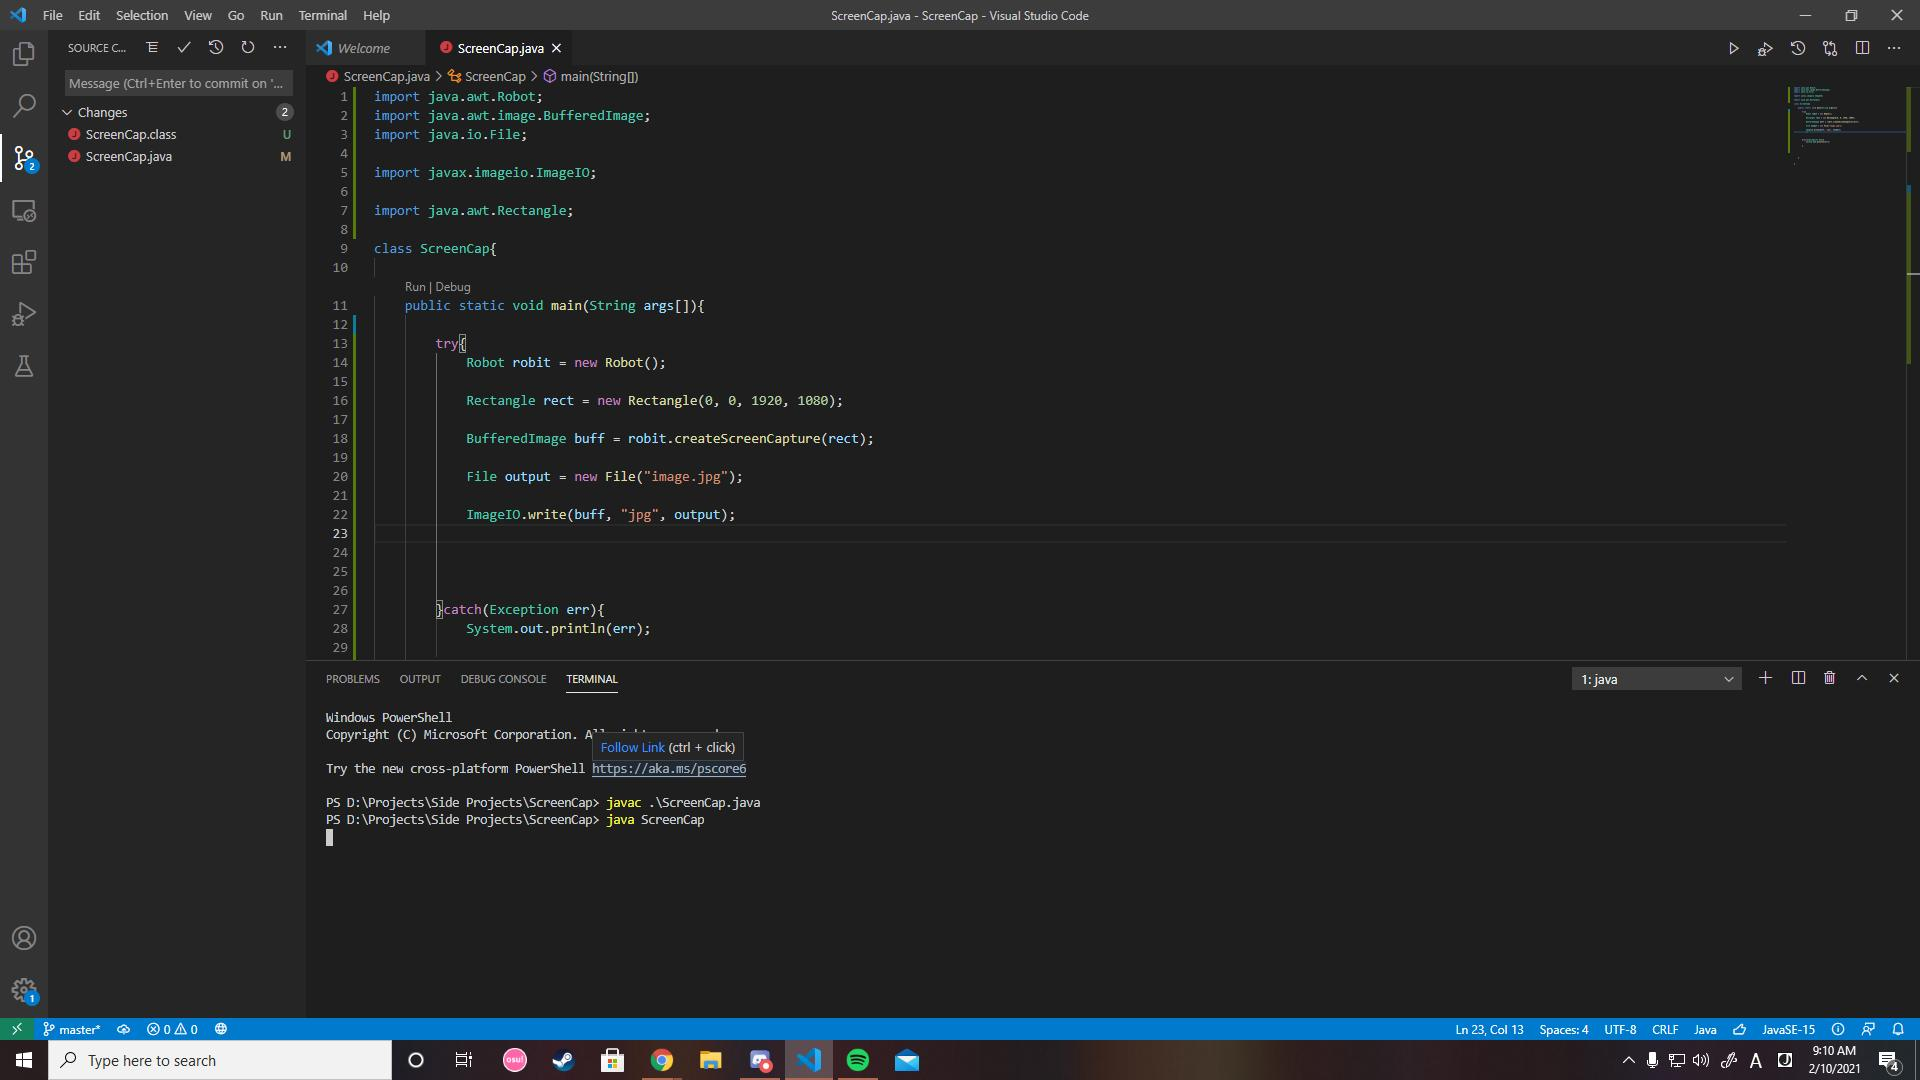
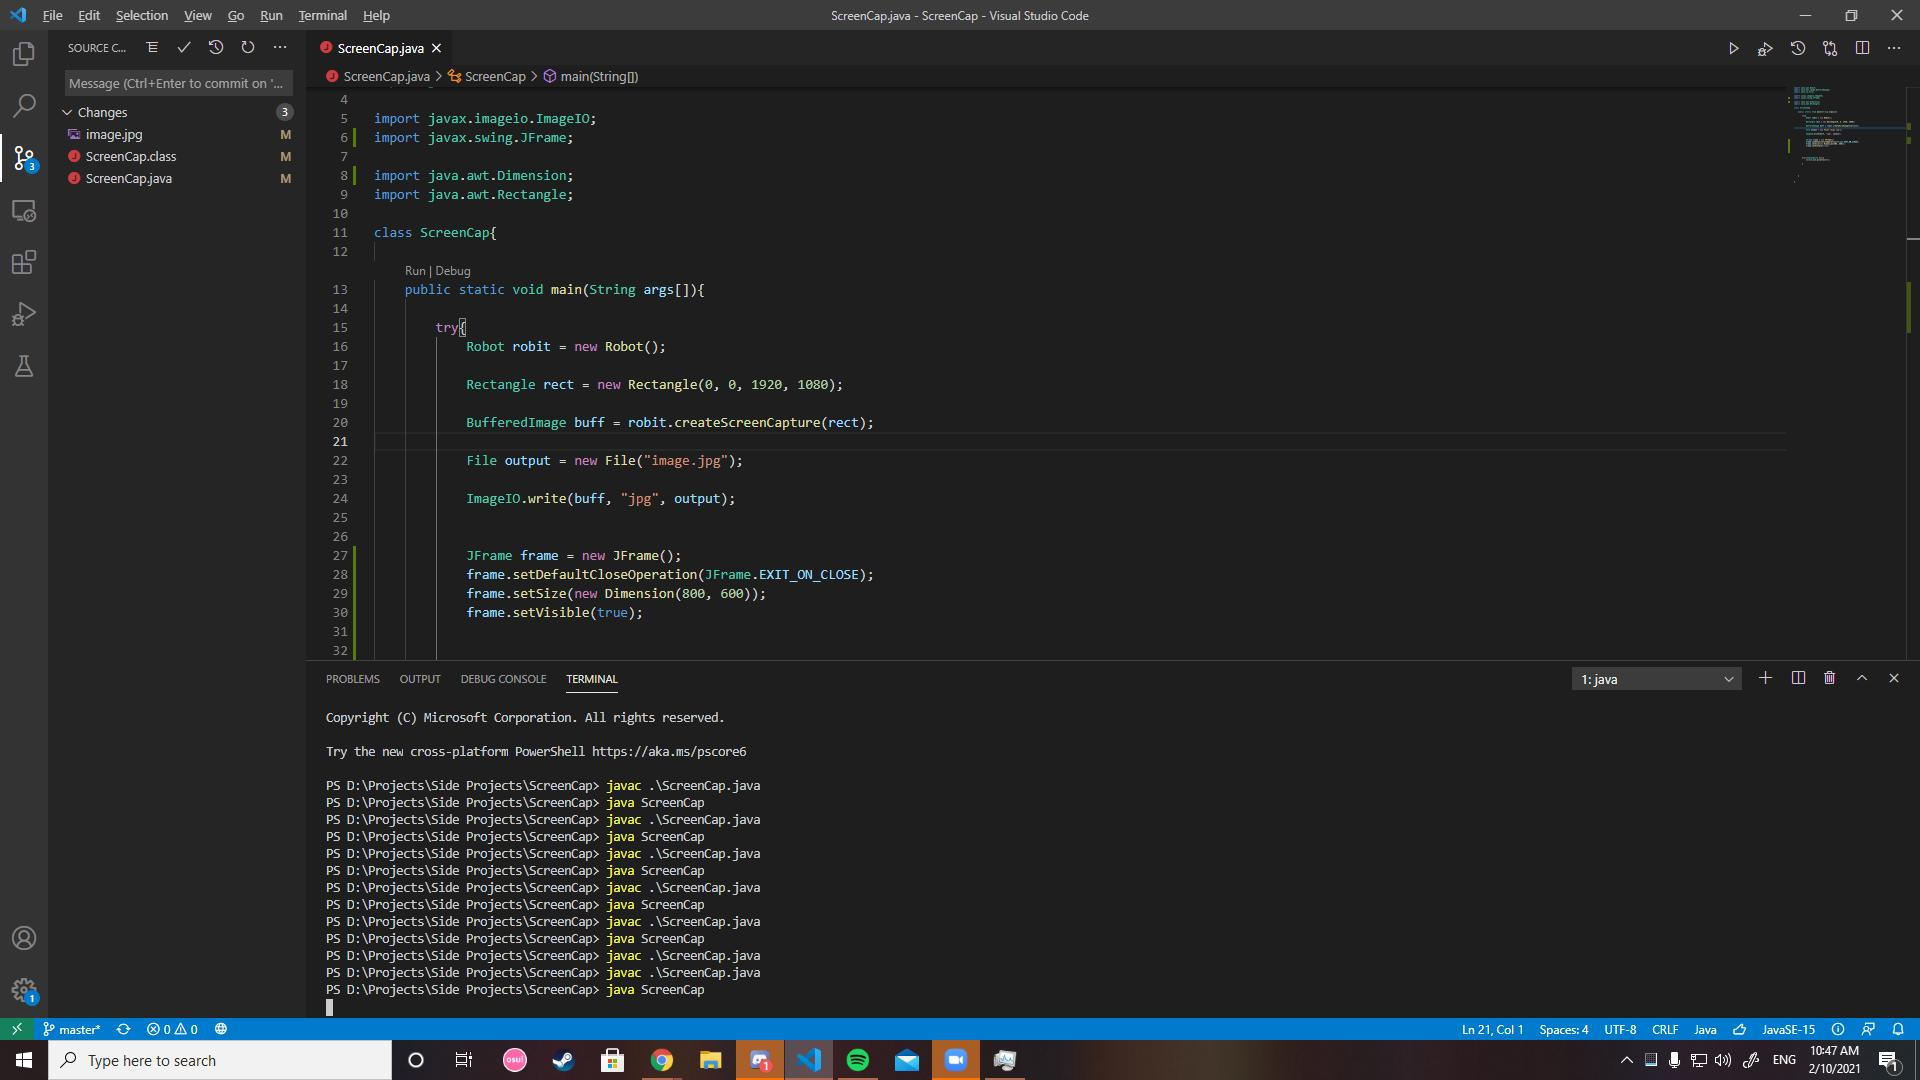
should now screencapture properly

diff --git a/ScreenCap.java b/ScreenCap.java
@@ -1,9 +1,14 @@
 import java.awt.Robot;
 import java.awt.image.BufferedImage;
+import java.io.ByteArrayOutputStream;
 import java.io.File;
 
 import javax.imageio.ImageIO;
+import javax.swing.ImageIcon;
+import javax.swing.JFrame;
+import javax.swing.JLabel;
 
+import java.awt.Dimension;
 import java.awt.Rectangle;
 
 class ScreenCap{
@@ -17,9 +22,40 @@ class ScreenCap{
 
             BufferedImage buff = robit.createScreenCapture(rect);
 
+            /*
             File output = new File("image.jpg");
 
             ImageIO.write(buff, "jpg", output);
+            */
+
+            ByteArrayOutputStream imageInBytes = new ByteArrayOutputStream();
+            ImageIO.write(buff, "jpg", imageInBytes);
+            byte[] imageArray = imageInBytes.toByteArray();
+
+            JFrame frame = new JFrame();
+            frame.setDefaultCloseOperation(JFrame.EXIT_ON_CLOSE);
+            frame.setSize(new Dimension(800, 600));
+            frame.setVisible(true);
+
+            ImageIcon image = new ImageIcon(buff);
+
+
+            JLabel imageLabel = new JLabel(image); 
+            frame.add(imageLabel);
+
+            imageLabel.setVisible(true);
+
+            while(true){
+                buff = robit.createScreenCapture(rect);
+
+                image = new ImageIcon(buff);
+                imageLabel.setIcon(image);
+
+
+            }
+
+
+            
             
 
 
